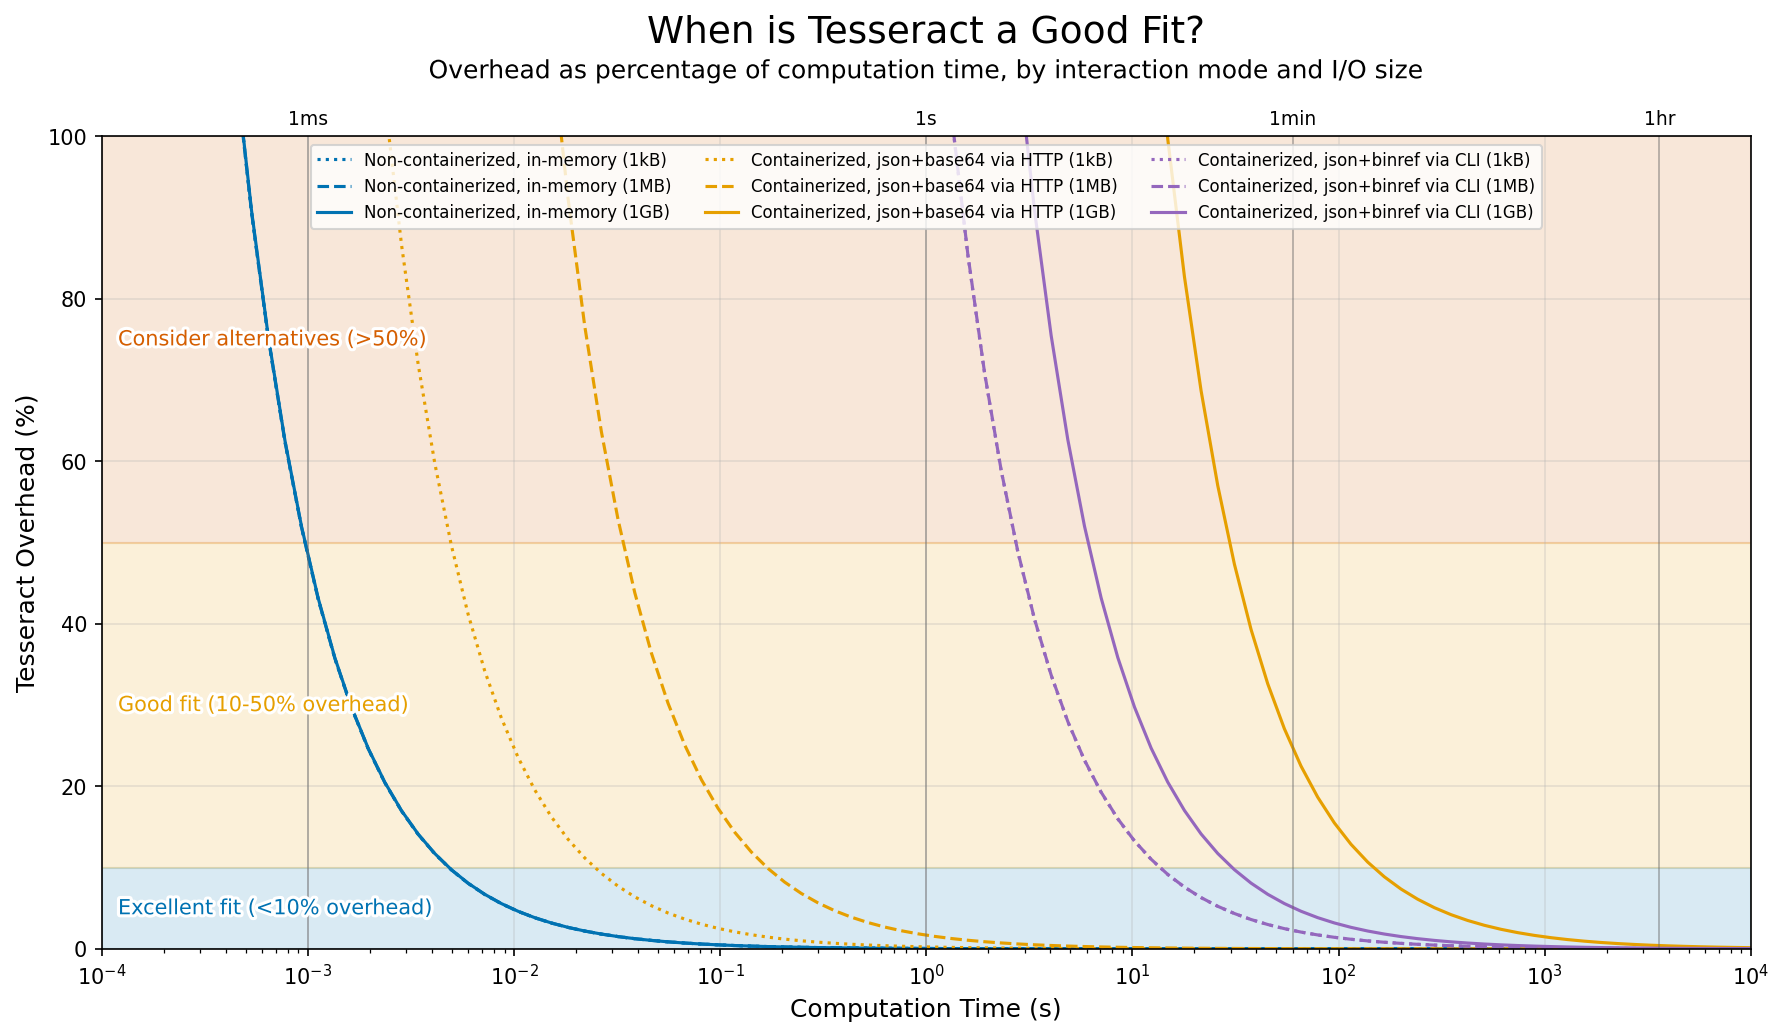
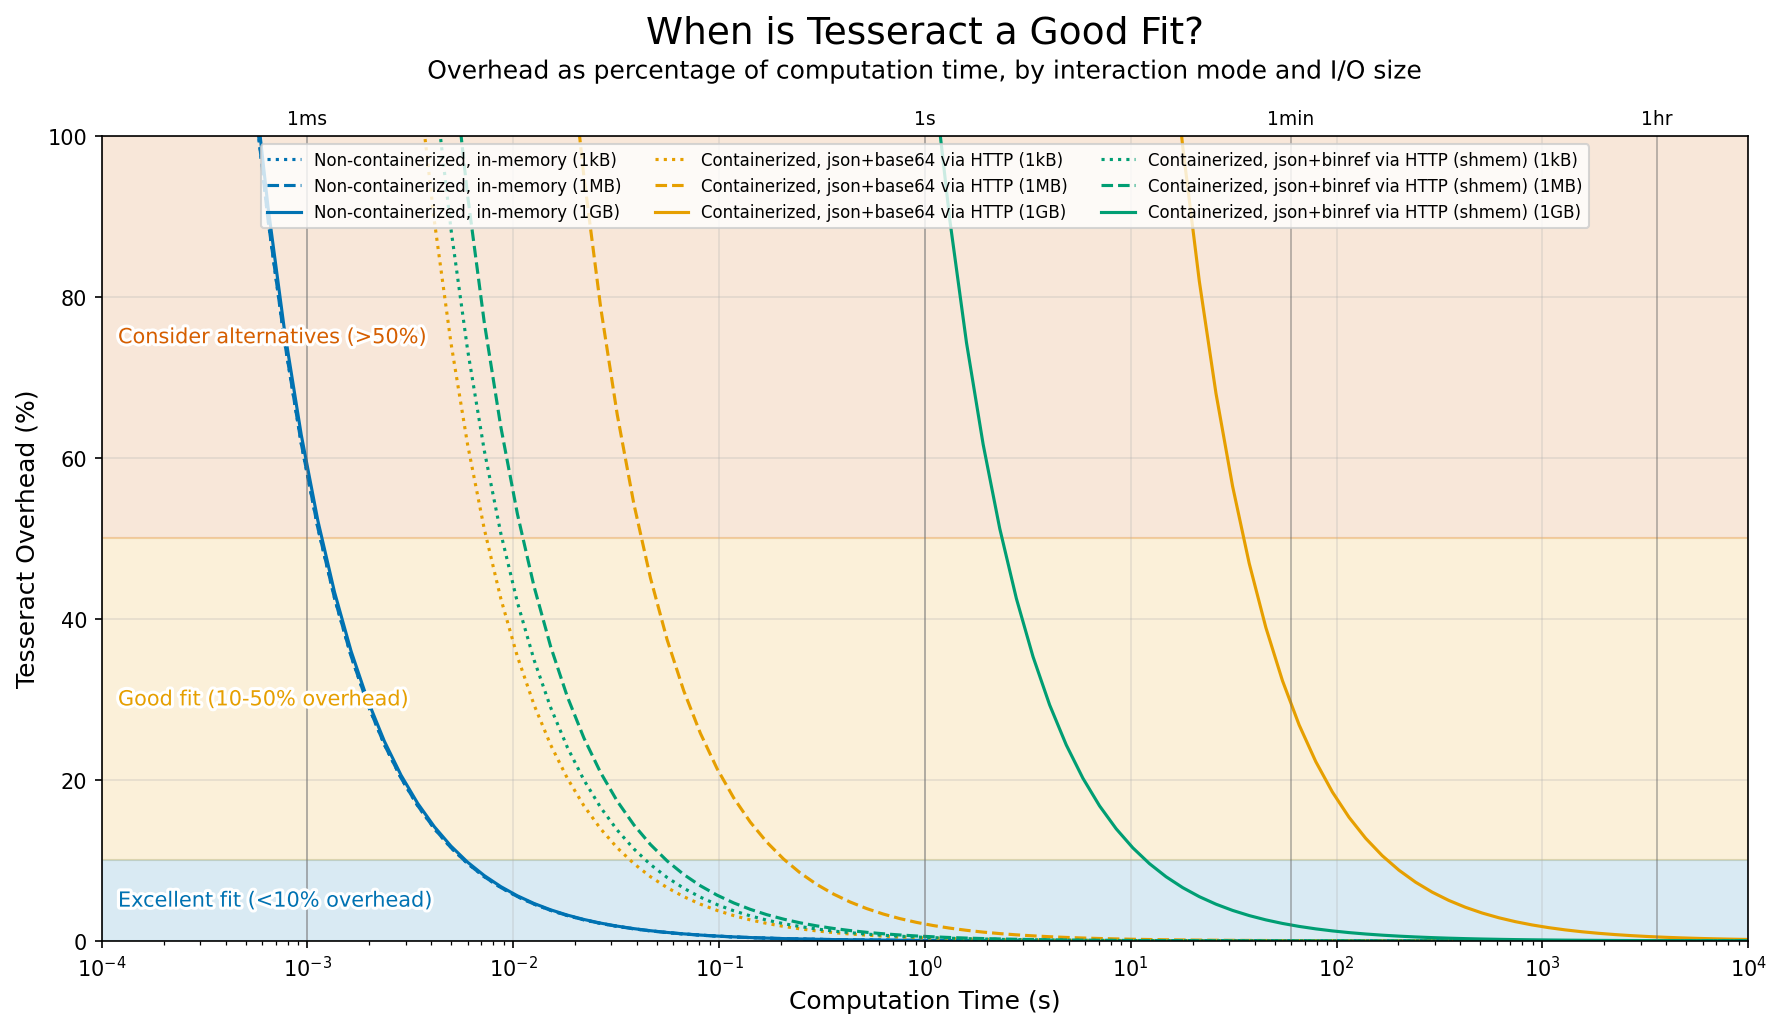
update docs

diff --git a/benchmarks/generate_plots.py b/benchmarks/generate_plots.py
@@ -55,6 +55,7 @@ def extract_suite_data(results: dict, suite_name: str) -> dict[int, float]:
         "from_tesseract_api",
         "containerized_http",
         "containerized_http_shmem",
+        "containerized_http_shmem_pool",
         "containerized_cli",
         "containerized_cli_shmem",
     )
@@ -146,28 +147,18 @@ def generate_guidance_plot(output_path: Path, benchmark_results: dict) -> None:
     containerized_http_data = extract_suite_data(
         benchmark_results, "containerized_http"
     )
-    containerized_http_shmem_data = extract_suite_data(
-        benchmark_results, "containerized_http_shmem"
-    )
-    containerized_cli_data = extract_suite_data(benchmark_results, "containerized_cli")
-    containerized_cli_shmem_data = extract_suite_data(
-        benchmark_results, "containerized_cli_shmem"
+    containerized_http_shmem_pool_data = extract_suite_data(
+        benchmark_results, "containerized_http_shmem_pool"
     )
 
-    # Colorblind-safe palette (blue / orange / sky / purple / pink)
+    # Colorblind-safe palette (blue / orange / green)
     modes = [
         ("Non-containerized, in-memory", from_api_data, "#0072B2"),
         ("Containerized, json+base64 via HTTP", containerized_http_data, "#E69F00"),
         (
             "Containerized, json+binref via HTTP (shmem)",
-            containerized_http_shmem_data,
-            "#56B4E9",
-        ),
-        ("Containerized, json+binref via CLI", containerized_cli_data, "#9467BD"),
-        (
-            "Containerized, json+binref via CLI (shmem)",
-            containerized_cli_shmem_data,
-            "#CC79A7",
+            containerized_http_shmem_pool_data,
+            "#009E73",
         ),
     ]
 
@@ -378,24 +369,22 @@ def generate_overhead_comparison_plot(
     containerized_http_data = extract_suite_data(
         benchmark_results, "containerized_http"
     )
-    containerized_http_shmem_data = extract_suite_data(
-        benchmark_results, "containerized_http_shmem"
+    containerized_http_shmem_pool_data = extract_suite_data(
+        benchmark_results, "containerized_http_shmem_pool"
     )
     containerized_cli_data = extract_suite_data(benchmark_results, "containerized_cli")
-    containerized_cli_shmem_data = extract_suite_data(
-        benchmark_results, "containerized_cli_shmem"
-    )
 
     from_api = [from_api_data.get(s, 0) for s in sizes]
     containerized_http = [containerized_http_data.get(s, 0) for s in sizes]
-    containerized_http_shmem = [containerized_http_shmem_data.get(s, 0) for s in sizes]
+    containerized_http_shmem = [
+        containerized_http_shmem_pool_data.get(s, 0) for s in sizes
+    ]
     containerized_cli = [containerized_cli_data.get(s, 0) for s in sizes]
-    containerized_cli_shmem = [containerized_cli_shmem_data.get(s, 0) for s in sizes]
 
     x = np.arange(len(sizes))
-    width = 0.16
-    # Five bars per group, centered on each tick.
-    offsets = np.array([-2, -1, 0, 1, 2]) * width
+    width = 0.2
+    # Four bars per group, centered on each tick.
+    offsets = np.array([-1.5, -0.5, 0.5, 1.5]) * width
 
     bars1 = ax.bar(
         x + offsets[0],
@@ -416,7 +405,7 @@ def generate_overhead_comparison_plot(
         containerized_http_shmem,
         width,
         label="Containerized, json+binref via HTTP (shmem)",
-        color="#56B4E9",
+        color="#009E73",
     )
     bars4 = ax.bar(
         x + offsets[3],
@@ -425,15 +414,9 @@ def generate_overhead_comparison_plot(
         label="Containerized, json+binref via CLI",
         color="#9467BD",
     )
-    bars5 = ax.bar(
-        x + offsets[4],
-        containerized_cli_shmem,
-        width,
-        label="Containerized, json+binref via CLI (shmem)",
-        color="#CC79A7",
-    )
 
     ax.set_xlabel("Array Size (elements)", fontsize=12)
+    ax.set_ylabel("Overhead (ms, log scale)", fontsize=12)
     ax.set_title("Tesseract Overhead by Interaction Mode", fontsize=18, pad=30)
     ax.text(
         0.5,
@@ -474,8 +457,7 @@ def generate_overhead_comparison_plot(
                     textcoords="offset points",
                     ha="center",
                     va="bottom",
-                    fontsize=7,
-                    rotation=90,
+                    fontsize=8,
                     path_effects=_outline,
                 )
 
@@ -483,7 +465,6 @@ def generate_overhead_comparison_plot(
     add_labels(bars2)
     add_labels(bars3)
     add_labels(bars4)
-    add_labels(bars5)
 
     plt.tight_layout()
     plt.savefig(output_path, dpi=150, bbox_inches="tight")

diff --git a/benchmarks/test_tesseract.py b/benchmarks/test_tesseract.py
@@ -106,6 +106,36 @@ def http_shmem_tesseract_instance(noop_tesseract_image):
     cm.__exit__(None, None, None)
 
 
+@pytest.fixture(scope="module")
+def http_shmem_pool_tesseract_instance(noop_tesseract_image):
+    """Create a containerized HTTP Tesseract using shmem binref with the pool.
+
+    Same as ``http_shmem_tesseract_instance`` but with ``binref_pool=True``,
+    which enables the client-side warm-buffer write pool and zero-copy lazy
+    mmap decode on the shared-memory binref exchange.
+    """
+    from tesseract_core.sdk.tesseract import Tesseract
+
+    shm_dir = Path("/dev/shm")
+    if not shm_dir.is_dir():
+        pytest.skip("/dev/shm is not available on this platform")
+
+    input_dir = Path(tempfile.mkdtemp(prefix="tess_shmem_pool_in_", dir=shm_dir))
+    output_dir = Path(tempfile.mkdtemp(prefix="tess_shmem_pool_out_", dir=shm_dir))
+    cm = Tesseract.from_image(
+        noop_tesseract_image,
+        input_path=input_dir,
+        output_path=output_dir,
+        output_format="json+binref",
+        binref_pool=True,
+    )
+    tesseract = cm.__enter__()
+    # Warmup - first request is slow due to container startup
+    tesseract.health()
+    yield tesseract
+    cm.__exit__(None, None, None)
+
+
 def test_from_tesseract_api(benchmark, tesseract_api_instance, array_size):
     """Benchmark non-containerized Tesseract via from_tesseract_api()."""
     arr = create_test_array(array_size)
@@ -135,6 +165,22 @@ def test_containerized_http_shmem(benchmark, http_shmem_tesseract_instance, arra
     inputs = {"data": arr}
 
     benchmark(http_shmem_tesseract_instance.apply, inputs)
+
+
+@pytest.mark.docker
+def test_containerized_http_shmem_pool(
+    benchmark, http_shmem_pool_tesseract_instance, array_size
+):
+    """Benchmark containerized HTTP shmem binref with ``binref_pool=True``.
+
+    Same served-container HTTP + shmem binref path as
+    ``test_containerized_http_shmem``, but with the opt-in warm-buffer write
+    pool and zero-copy lazy mmap decode enabled.
+    """
+    arr = create_test_array(array_size)
+    inputs = {"data": arr}
+
+    benchmark(http_shmem_pool_tesseract_instance.apply, inputs)
 
 
 def _run_cli_binref_benchmark(benchmark, noop_tesseract_image, array_size, binref_root):

diff --git a/docs/content/how-to/fast-local-runs.md b/docs/content/how-to/fast-local-runs.md
@@ -1,0 +1,130 @@
+---
+og:title: "Fast same-machine runs with shared-memory binref"
+og:description: "Exchange large arrays with a served Tesseract through shared memory instead of base64 over HTTP, for much lower overhead on same-machine workloads."
+---
+
+# Fast same-machine runs with shared-memory binref
+
+When the client and a served Tesseract run on the same machine, most of the
+per-call overhead for large arrays comes from moving array bytes over HTTP. The
+default `json+base64` encoding copies every array into the request or response
+body, base64-encodes it, and copies it out again on the other side. For arrays
+in the tens or hundreds of megabytes, that encode/transfer/decode round-trip
+dominates the call.
+
+You can avoid it. Point a served Tesseract at a shared-memory directory
+(`/dev/shm` on Linux) and use `json+binref` encoding: arrays are written to
+`.bin` files in that directory, and only lightweight file references travel over
+HTTP. Because `/dev/shm` is a `tmpfs` shared between the host and the container,
+the array data never leaves memory and is never copied through the socket.
+
+```{note}
+This is a Linux optimization. It relies on `/dev/shm` (a shared-memory `tmpfs`)
+being available and bind-mounted into the container. It is most useful when the
+client and the Tesseract share a host; for remote Tesseracts, array data has to
+cross the network regardless, so a compact wire encoding is what matters instead
+(see {doc}`/content/reference/array-encodings`).
+```
+
+## Basic usage
+
+Pass shared-memory directories as the input and output paths and select
+`json+binref` as the output format:
+
+```python
+import tempfile
+from pathlib import Path
+
+import numpy as np
+from tesseract_core import Tesseract
+
+shm = Path("/dev/shm")
+input_dir = Path(tempfile.mkdtemp(prefix="tess_in_", dir=shm))
+output_dir = Path(tempfile.mkdtemp(prefix="tess_out_", dir=shm))
+
+x = np.random.default_rng(0).standard_normal(10_000_000)
+
+with Tesseract.from_image(
+    "my-tesseract",
+    input_path=input_dir,
+    output_path=output_dir,
+    output_format="json+binref",
+) as t:
+    result = t.apply({"x": x})
+    # result["y"] is a NumPy array, decoded from a .bin file on /dev/shm
+```
+
+The `output_format` argument controls only how arrays are exchanged internally;
+`apply` still returns ordinary NumPy arrays, so the rest of your code does not
+change. `input_path` and `output_path` are bind-mounted into the container, and
+the `.bin` files written for each request are cleaned up afterwards.
+
+```{tip}
+`/dev/shm` counts against a size limit (often half of RAM by default) and holds
+data in memory. Large arrays and repeated runs can fill it, so remove scratch
+directories when you are done, and size `/dev/shm` for your largest expected
+payload.
+```
+
+## The `binref_pool` fast path
+
+By default, each request writes its input arrays to freshly allocated `.bin`
+files. Allocating and faulting in fresh pages for a large array is a significant
+part of the remaining cost. The opt-in `binref_pool=True` flag addresses this:
+
+```python
+with Tesseract.from_image(
+    "my-tesseract",
+    input_path=input_dir,
+    output_path=output_dir,
+    output_format="json+binref",
+    binref_pool=True,
+) as t:
+    result = t.apply({"x": x})
+```
+
+With the pool enabled, the client reuses a small set of pre-faulted,
+memory-mapped input buffers instead of writing a fresh file per request, and (on
+POSIX platforms) decodes outputs as zero-copy memory-mapped views rather than
+eager copies. On the shared-memory setup above, this roughly halves the
+remaining overhead for large arrays.
+
+Two things to keep in mind when opting in:
+
+- **Decoded results are read-only views** backed by the output files, valid only
+  until the next request or until teardown. If you need to keep a result across
+  calls or mutate it in place, copy it first (for example `np.array(result["y"])`),
+  or leave the pool off. On non-POSIX platforms the eager, owned, writable decode
+  is used regardless, so this caveat does not apply there.
+- **The pool holds some resident memory** until the Tesseract is torn down.
+
+The pool has no effect for output formats other than `json+binref`.
+
+## When this helps
+
+The benefit grows with array size. The table below shows median per-call
+overhead for a no-op Tesseract (which only decodes inputs and encodes outputs)
+across encodings, measured on one Linux machine with bare-metal Docker and
+loopback networking. Absolute numbers depend heavily on hardware; treat them as
+illustrative of the *shape* of the trade-off, not as guarantees.
+
+| Array size (float64)   | HTTP + base64 | HTTP + shmem binref | HTTP + shmem binref, `binref_pool` |
+| ---------------------- | ------------- | ------------------- | ---------------------------------- |
+| 1,000 (~8 kB)          | ~3.8 ms       | ~4.5 ms             | ~4.4 ms                            |
+| 100,000 (~0.8 MB)      | ~9.2 ms       | ~5.7 ms             | ~4.9 ms                            |
+| 10,000,000 (~76 MB)    | ~1,130 ms     | ~206 ms             | ~87 ms                             |
+| 100,000,000 (~760 MB)  | ~13,170 ms    | ~1,990 ms           | ~880 ms                            |
+
+For small arrays, base64 is competitive or slightly faster: the payload is tiny,
+so HTTP round-trip latency dominates and the extra file handling of binref is
+pure overhead. The crossover in this measurement is around 100 kB. For large
+arrays the shared-memory path pulls far ahead, and the pool roughly halves the
+overhead again.
+
+If your arrays are small, or your Tesseract runs remotely, stay with the default
+`json+base64`. Reach for shared-memory binref when you are passing large arrays
+to a Tesseract on the same machine and per-call overhead is limiting you.
+
+For the broader picture of where overhead comes from and how to reason about it,
+see {doc}`/content/concepts/performance`. For encoding-format details, see
+{doc}`/content/reference/array-encodings`.

diff --git a/docs/content/concepts/performance.md b/docs/content/concepts/performance.md
@@ -56,6 +56,13 @@ Overhead comparison across interaction modes for different array sizes. Uses a n
 | **Containerized, json+base64 via HTTP** (orange) | Full Docker + HTTP stack, served via HTTP (e.g. `tesseract serve`). Includes serialization and network transfer.            | Production, CI/CD, multi-language environments         |
 | **Containerized, json+binref via CLI** (purple)  | CLI invocation via `tesseract run`. Includes container startup and disk I/O, but avoids transferring data over the network. | Shell scripts, one-off runs, pipelines with large data |
 
+For same-machine workloads on large arrays, a fourth mode is worth knowing about:
+serving over HTTP but exchanging arrays as `json+binref` files on a shared-memory
+`tmpfs` (`/dev/shm`), so array data stays in memory instead of being base64-encoded
+into the HTTP body. On the benchmark machine this cut overhead for a 76MB array from
+~1s to ~0.2s, and to ~0.08s with the opt-in `binref_pool` fast path. See
+{doc}`/content/how-to/fast-local-runs` for when to use it and how.
+
 The guidance chart below puts these numbers in context by showing overhead as a percentage of computation time, for three representative I/O sizes (dotted = 1kB, dashed = 1MB, solid = 1GB). For small data, fixed costs (HTTP roundtrip, container startup) dominate. For large data, transfer and serialization take over.
 
 ```{figure} /img/benchmark_guidance.png
@@ -90,6 +97,8 @@ Advice in this section is specific to the benchmarking scenario described above.
 Encoding format affects both serialization time and the volume of data transferred. A 10M-element float64 array is ~76MB as raw binary, ~100MB as base64, and ~230-760MB as JSON. If I/O is slow, data transfer dominates over serialization, and choosing a compact format is the most effective optimization.
 
 In short: use **base64** (default) for HTTP transport, **binref** for large arrays or disk-based pipelines, and **json** only when you need human-readable output. See {doc}`/content/reference/array-encodings` for format details and usage examples.
+
+When the client and a served Tesseract share a machine, you can combine HTTP serving with binref on a shared-memory `tmpfs` to pass large arrays without base64-encoding them into the request body. See {doc}`/content/how-to/fast-local-runs`.
 
 ### 2. Batch small operations
 

diff --git a/docs/content/reference/array-encodings.md b/docs/content/reference/array-encodings.md
@@ -141,6 +141,13 @@ The `.bin` file references are relative to the `--output-path`.
 :::
 ::::
 
+```{tip}
+When the client and a served Tesseract share a machine, placing the binref
+input/output directories on a shared-memory `tmpfs` (`/dev/shm`) lets large
+arrays move between them without base64-encoding into the HTTP body. See
+{doc}`/content/how-to/fast-local-runs`.
+```
+
 ### lz4 compression
 
 Set the `TESSERACT_COMPRESSION=lz4` config variable to compress arrays in the output. This applies to both `json+binref` and `json+base64` formats. For binref, each array is compressed individually, preserving offset-based random access, with the compressed size embedded in the buffer path (`<file>:<offset>:<compressed_size>`).

diff --git a/docs/content/introduction/index.md b/docs/content/introduction/index.md
@@ -99,6 +99,7 @@ Changelog <https://github.com/pasteurlabs/tesseract-core/releases>
 ../how-to/pipelines.md
 ../how-to/advanced-usage.md
 ../how-to/deploy.md
+../how-to/fast-local-runs.md
 ../how-to/debugging.md
 ../how-to/llm-assistance.md
 ```
